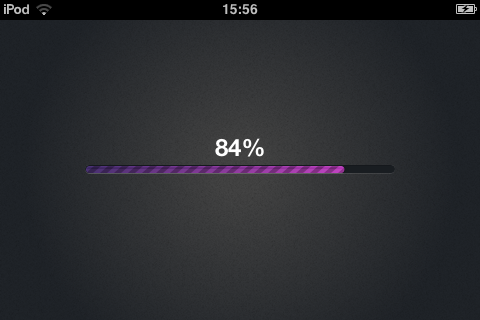
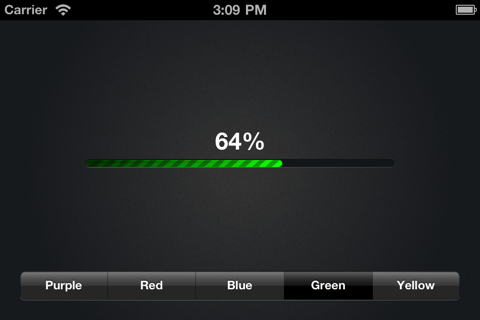
Add progressTintColor for customizing the color.

diff --git a/YLProgressBar/YLProgressBar.m b/YLProgressBar/YLProgressBar.m
@@ -36,10 +36,11 @@
 #define YLProgressBarColorBackground        [UIColor colorWithRed:0.0980f green:0.1137f blue:0.1294f alpha:1.0f]
 #define YLProgressBarColorBackgroundGlow    [UIColor colorWithRed:0.0666f green:0.0784f blue:0.0901f alpha:1.0f]
 
-// Gradient
-#define YLProgressBarGradientProgress       {0.2824f, 0.1961f, 0.4431f, 1.000f, 0.7569f, 0.2706f, 0.7608f, 1.000f}
-
 @interface YLProgressBar ()
+{
+    UIColor* _progressTintColor;
+    UIColor* _progressTintColorDark;
+}
 @property (nonatomic, assign)               double      progressOffset;
 @property (nonatomic, assign)               CGFloat     cornerRadius;
 @property (nonatomic, SAFE_ARC_PROP_RETAIN) NSTimer*    animationTimer;
@@ -73,6 +74,8 @@
     }
     
     SAFE_ARC_RELEASE (animationTimer);
+    SAFE_ARC_RELEASE (_progressTintColor);
+    SAFE_ARC_RELEASE (_progressTintColorDark);
     
     SAFE_ARC_SUPER_DEALLOC ();
 }
@@ -115,6 +118,26 @@
         [self drawStripesWithRect:innerRect];
         [self drawGlossWithRect:innerRect];
     }
+}
+
+- (void)setProgressTintColor:(UIColor *)aProgressTintColor
+{
+    SAFE_ARC_RELEASE(_progressTintColor);
+    _progressTintColor = SAFE_ARC_RETAIN(aProgressTintColor);
+    const CGFloat* components = CGColorGetComponents(_progressTintColor.CGColor);
+    _progressTintColorDark = SAFE_ARC_RETAIN([UIColor colorWithRed:components[0] / 4.0f
+                                                             green:components[1] / 4.0f
+                                                              blue:components[2] / 4.0f
+                                                             alpha:CGColorGetAlpha(_progressTintColor.CGColor)]);
+}
+
+- (UIColor*)progressTintColor
+{
+    if (!_progressTintColor)
+    {
+        [self setProgressTintColor:[UIColor purpleColor]];
+    }
+    return _progressTintColor;
 }
 
 #pragma mark -
@@ -214,10 +237,13 @@
         CGContextAddPath(context, [progressBounds CGPath]);
         CGContextClip(context);
 
-        size_t num_locations            = 2;
+//        size_t num_locations            = 2;
         CGFloat locations[]             = {0.0, 1.0};
-        CGFloat progressComponents[]    = YLProgressBarGradientProgress;
-        CGGradientRef gradient          = CGGradientCreateWithColorComponents (colorSpace, progressComponents, locations, num_locations);
+        CFArrayRef colors = (CFArrayRef) [NSArray arrayWithObjects:(id)_progressTintColorDark.CGColor,
+                                          (id)self.progressTintColor.CGColor, 
+                                          nil];
+        
+        CGGradientRef gradient          = CGGradientCreateWithColors (colorSpace, colors, locations);
         
         CGContextDrawLinearGradient(context, gradient, CGPointMake(rect.origin.x, rect.origin.y), CGPointMake(rect.origin.x + rect.size.width, rect.origin.y), (kCGGradientDrawsBeforeStartLocation | kCGGradientDrawsAfterEndLocation));
         

diff --git a/YLProgressBar/YLViewController.m b/YLProgressBar/YLViewController.m
@@ -106,6 +106,31 @@
     [progressView setProgress:progressValue];
 }
 
+- (IBAction)colorButtonTapped:(id)sender
+{
+    UISegmentedControl *seg = (UISegmentedControl*)sender;
+    switch (seg.selectedSegmentIndex) {
+        case 0:
+            progressView.progressTintColor = [UIColor purpleColor];
+            break;
+        case 1:
+            progressView.progressTintColor = [UIColor redColor];
+            break;
+        case 2:
+            progressView.progressTintColor = [UIColor cyanColor];
+            break;
+        case 3:
+            progressView.progressTintColor = [UIColor greenColor];
+            break;
+        case 4:
+            progressView.progressTintColor = [UIColor yellowColor];
+            break;
+            
+        default:
+            break;
+    }
+}
+
 #pragma mark YLViewController Private Methods
 
 @end

diff --git a/YLProgressBar/YLProgressBar.h b/YLProgressBar/YLProgressBar.h
@@ -30,6 +30,7 @@
 {
 @public
     BOOL        animated;
+    UIColor*    progressTintColor;
     
 @protected
     double      progressOffset;
@@ -38,6 +39,7 @@
 }
 /** Run the animation of the progress bar. YES by default. */
 @property (nonatomic, getter = isAnimated) BOOL animated;
+@property (nonatomic, retain) UIColor *progressTintColor;
 
 #pragma mark Constructors - Initializers
 

diff --git a/YLProgressBar/YLViewController.h b/YLProgressBar/YLViewController.h
@@ -24,4 +24,6 @@
 
 #pragma mark Public Methods
 
+- (IBAction)colorButtonTapped:(id)sender;
+
 @end
